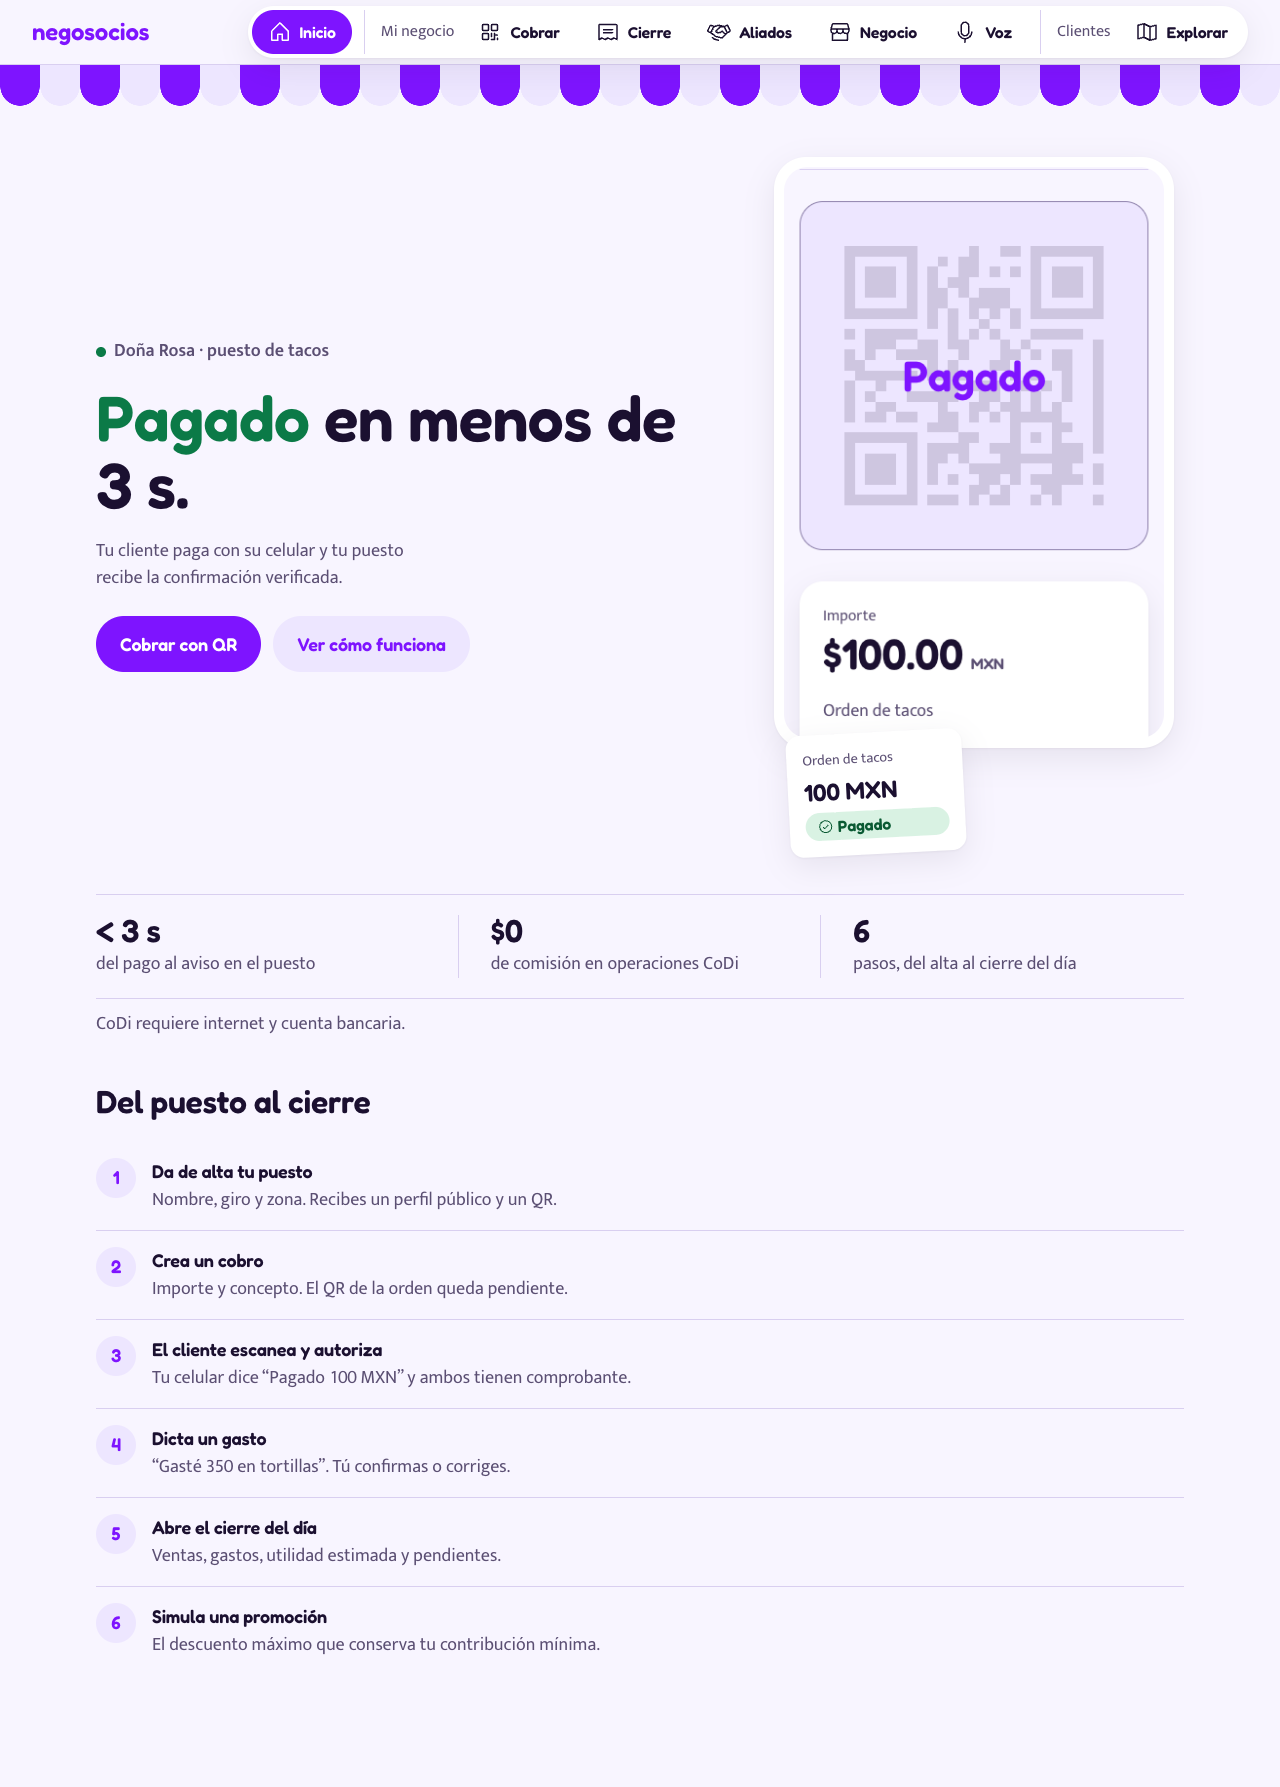
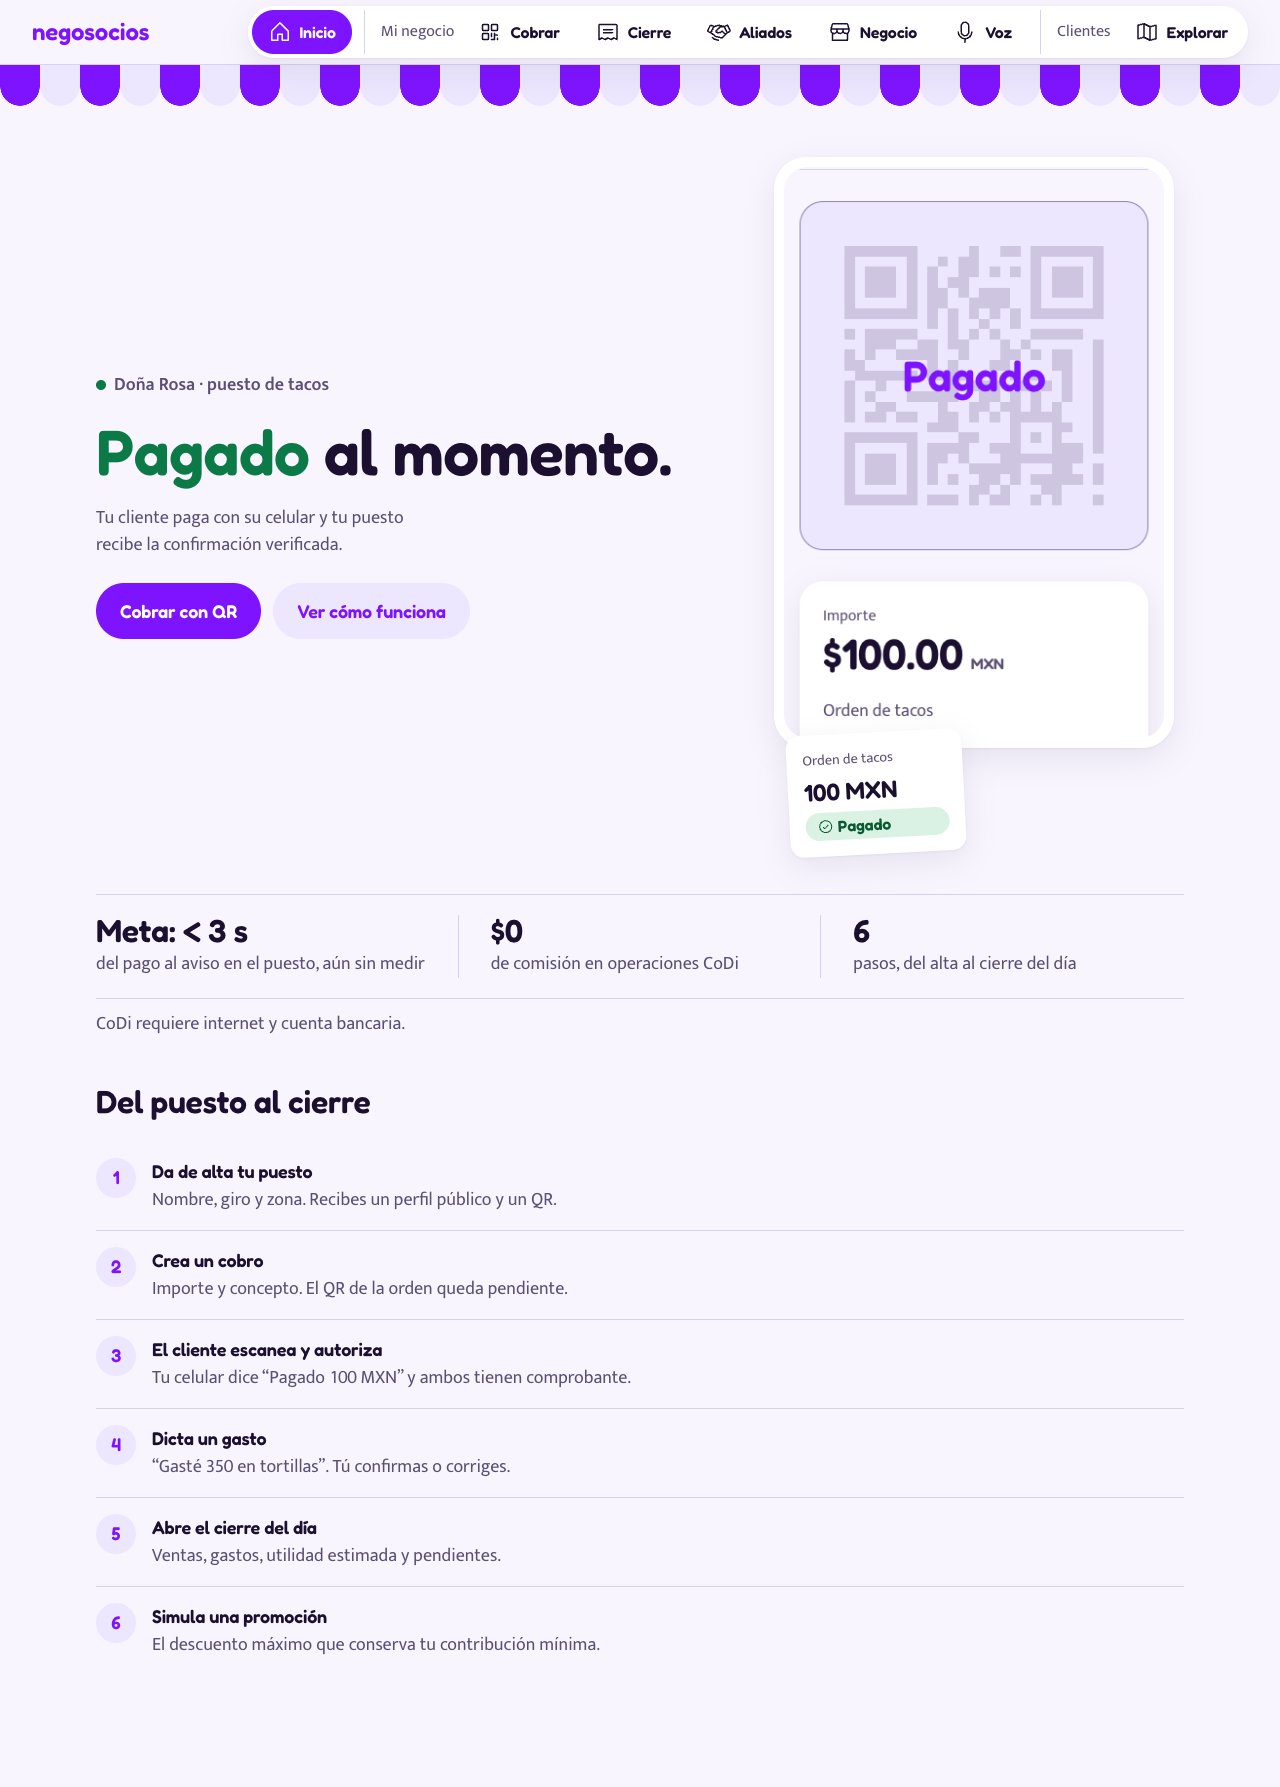
HACK-033: la meta de 3 s se etiqueta como meta sin medir; el menú de escritorio se desplaza en vez de desbordar

Changed region(s): [[0.0625, 0.1847, 0.5312, 0.4001], [0.0625, 0.4924, 0.125, 0.5232]]

diff --git a/web/src/lib/ui/locked/Inicio.tsx b/web/src/lib/ui/locked/Inicio.tsx
@@ -2,8 +2,9 @@ import { CheckCircle } from "@phosphor-icons/react";
 import { Button, Chip, Surface } from "..";
 
 /* Locked "Inicio" (direction R1-v1, tianguis): the hero is the real Cobrar screen turning "Pagado".
-   The real landing (features/landing) copies this composition. Copy comes from IDEA.md §1, §2, §4;
-   "< 3 s" is the wow target stated there and is still to validate before the pitch. */
+   The real landing (features/landing) copies this composition. Copy comes from IDEA.md §1, §2, §4.
+   "< 3 s" is the wow TARGET stated in IDEA.md, not a measurement: it is labeled as a target and
+   must stay that way until it is measured with a real payment. */
 
 // Tianguis awning: lilac and purple stripes with a scalloped edge. Pure CSS, no image.
 const toldo = {
@@ -34,7 +35,7 @@ export default function Inicio() {
             Doña Rosa · puesto de tacos
           </span>
           <h1 className="text-[length:var(--text-2xl)] leading-[1.04] md:text-[length:var(--text-hero)]">
-            <span className="text-money">Pagado</span> en menos de 3&nbsp;s.
+            <span className="text-money">Pagado</span> al momento.
           </h1>
           <p className="max-w-[30ch] text-ink-2">Tu cliente paga con su celular y tu puesto recibe la confirmación verificada.</p>
           <div className="flex flex-wrap gap-3 pt-1">
@@ -71,7 +72,7 @@ export default function Inicio() {
       <div className="mx-auto max-w-6xl px-4 pb-10 md:px-8">
         <dl className="grid grid-cols-3 divide-x divide-hairline border-y border-hairline py-5">
           {[
-            ["< 3 s", "del pago al aviso en el puesto"],
+            ["Meta: < 3 s", "del pago al aviso en el puesto, aún sin medir"],
             ["$0", "de comisión en operaciones CoDi"],
             ["6", "pasos, del alta al cierre del día"],
           ].map(([figure, caption]) => (

diff --git a/web/src/lib/ui/NavBar.tsx b/web/src/lib/ui/NavBar.tsx
@@ -76,11 +76,11 @@ export function MenuBar({ menu, active, onSelect }: Props) {
     <>
       <nav aria-label="Principal" className="sticky top-0 z-10 hidden border-b border-hairline bg-bg md:block">
         <div className="mx-auto flex h-16 max-w-7xl items-center justify-between gap-6 px-8">
-          <a href="#landing" className="font-display text-[length:var(--text-l)] text-accent">negosocios</a>
-          <div className="flex items-center gap-3 rounded-full bg-surface p-1 shadow-lift">
+          <a href="#landing" className="shrink-0 font-display text-[length:var(--text-l)] text-accent">negosocios</a>
+          <div className="flex min-w-0 items-center gap-3 overflow-x-auto rounded-full bg-surface p-1 shadow-lift">
             {menu.inicio.map((e) => button(e, false))}
             {groups.map((g) => (
-              <div key={g.key} role="group" aria-label={g.label} className="flex items-center gap-1 border-l border-hairline pl-3">
+              <div key={g.key} role="group" aria-label={g.label} className="flex shrink-0 items-center gap-1 border-l border-hairline pl-3">
                 <span aria-hidden="true" className="px-1 text-[length:var(--text-s)] text-ink-2">{g.label}</span>
                 {menu[g.key].map((e) => button(e, false))}
               </div>

diff --git a/web/DESIGN.md b/web/DESIGN.md
@@ -43,7 +43,7 @@ Disabled: muted lilac fill `--disabled` with `--disabled-ink` text, never the ac
 ## Screens: one recipe and one hero each
 | Screen | Recipe (skill `product-ui` §2) | Hero |
 |---|---|---|
-| Inicio | `landing-story` | "Pagado en menos de 3 s" con la pantalla real de Cobrar en un marco de celular, bajo el toldo |
+| Inicio | `landing-story` | "Pagado al momento" con la pantalla real de Cobrar en un marco de celular, bajo el toldo |
 | Cobrar | flow | el QR CoDi grande sobre fondo tint, con el importe "100 MXN" y el estado Pendiente a Pagado (verde) |
 | Pagar | flow | el importe y el receptor ("Pagas a") antes del botón "Pagar 100 MXN" |
 | Cierre | dashboard | utilidad estimada en 44 px (64 en escritorio), con ventas y gastos debajo y lista de cobros |
